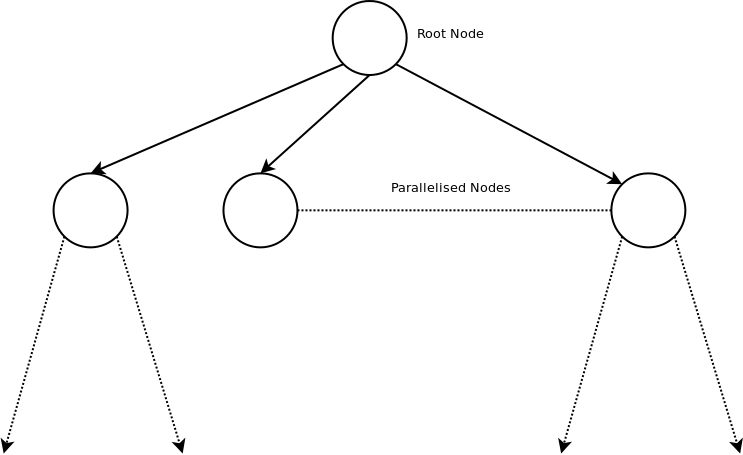
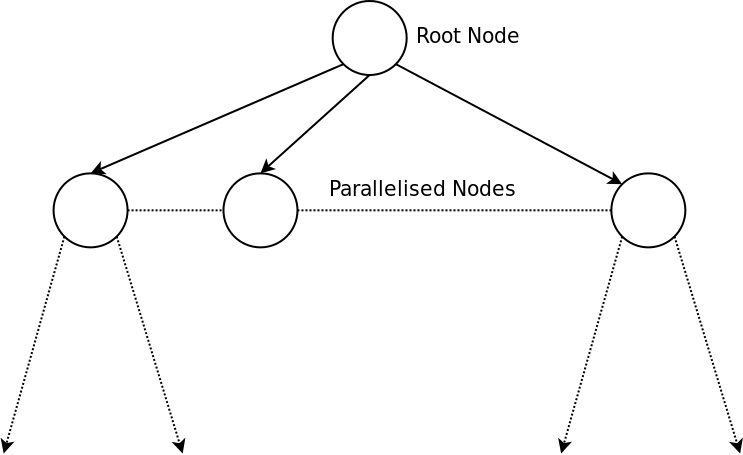
Tweaked the concurrency image. Did part of the text on the static evaluation function. Also, proofreading.

Changed region(s): [[0.4334, 0.4, 0.712, 0.4308], [0.5572, 0.0615, 0.712, 0.0923], [0.1857, 0.4615, 0.2786, 0.4923]]

diff --git a/report/comp3130report.tex b/report/comp3130report.tex
@@ -35,17 +35,18 @@
 \section*{\emph{Design Problem}}
 \hrule
 
-The problem is to design and implement an intelligent agent to play a variant of Othello in a tournament, through network communications.
+The problem was to design and implement an artificial intelligent agent to play a variant of Othello in a tournament run via network communications.
 
-The variant of Othello has a 10x10 board rather than the traditional 8x8, and contains 4 randomly 'removed' squares that cannot be moved on. This adds complexity to the domain (significantly increased game tree size) and a stochasticity to the domain - two consecutive games are unlikely to have the same board configuration.
+The variant of Othello has a 10x10 board rather than the traditional 8x8, and contains 4 randomly 'removed' squares where pieces cannot be placed. The variant adds both complexity (in the form of significantly increased game tree size) and stochasticity to the domain - two consecutive games are unlikely to have the same board configuration.
 
-A server handles incoming network messages from the client (initial message, and move choice) and sends outgoing messages (updated board state and move request, end of game). The server allocates 150 seconds time over the whole game to each side, and calls a forfeit if any side runs out of time.
+A server handles incoming network messages from the agents (initial message, and move choice) and sends outgoing messages (updated board state and move request, end of game). The server allocates 150 seconds time over the whole game to each player, and calls a forfeit if any side runs out of time.
 
 \section*{\emph{Design Solution}}
+\hrule
 
-The Reverwesome Agent uses negamax with alpha beta pruning and a depth cutoff, with a static evaluation fuction for board states, as a backbone for game play.
+The Reverwesome Agent uses negamax with alpha beta pruning and a depth cutoff, with a static evaluation function used to estimate the value of board states, as a backbone for game play.
 
-Core to the static evaluation function is the Temporal Different learning algorithm TD($\lambda$) in order to learn good weights for features used in static evaluation.
+Core to the static evaluation function are a set of features (functions of a board position) and corresponding feature weights, learnt by the agent using a modified TD($\lambda$) temporal difference learning algorithm via repeated self-play.
 
 The agent also uses a simple time management system to deal with time constraints and concurrent game tree searching in order to utilise maximum computer performance.
 
@@ -53,25 +54,25 @@ The project uses C++ to implement network communications with the server and int
 
 \section*{\emph{Static Evaluation}}
 \hrule
+The static evaluation function is a simple linear combination of our feature functions, each weighted by their respective feature weight:
+\[
+	\sum_{i=1}^N W_i \left(F_i(p,b) -F_i(\neg p,b) \right)
+\]
+Where $F_i$ is the $i$\textsuperscript{th} feature function, $W_i$ is the corresponding feature weight, $p$ is the player (with $\neg p$ corresponding to the other player), and $b$ is the board state.
+
+Our evaluation function in principle uses 103 different features. However, these features can be broken down as:
     \begin{itemize}
   \item
-    Use features weights to evaluate value of board states
+    Mobility: number of moves the player would have if it was their turn.
   \item
-    3 different feature sets - mention transitions
+   Stability:  The number of stable (uncapturable) pieces the player owns.
   \item
-    15 weights for each piece position
-	\begin{itemize}
-		\item based on (naive) 8-way symmetry
-		\item in actuality, only a 4-way symmetry exists. However, in practice this doesn't make a lot of difference.
-		% Include picture showing the difference?
-	\end{itemize}
+   Internality: The number of internal pieces the player owns
   \item
-    Weight for mobility - number of moves if it was our turn
-  \item
-   Weight for stability - number of stable pieces we own
-  \item
-   Weight for internals - number of internal pieces we own
+    Control: 100 features, corresponding to control of each of the 100 squares on the board.
   \end{itemize}
+
+In practice, only 15 of the weights for control of the board are stored, corresponding to an 8-way symmetric subregion of the board. These weights are then mirrored out to the other 7 symmetric regions.
 
 \section*{\emph{\textmd{Piece Stability}}}
 \hrule